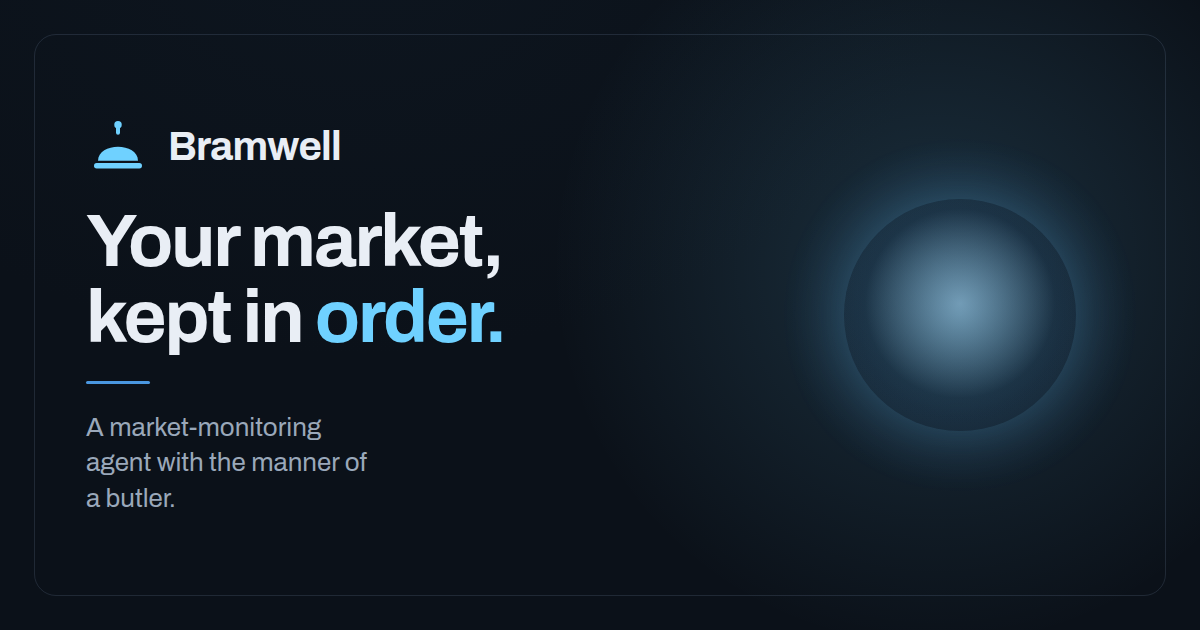
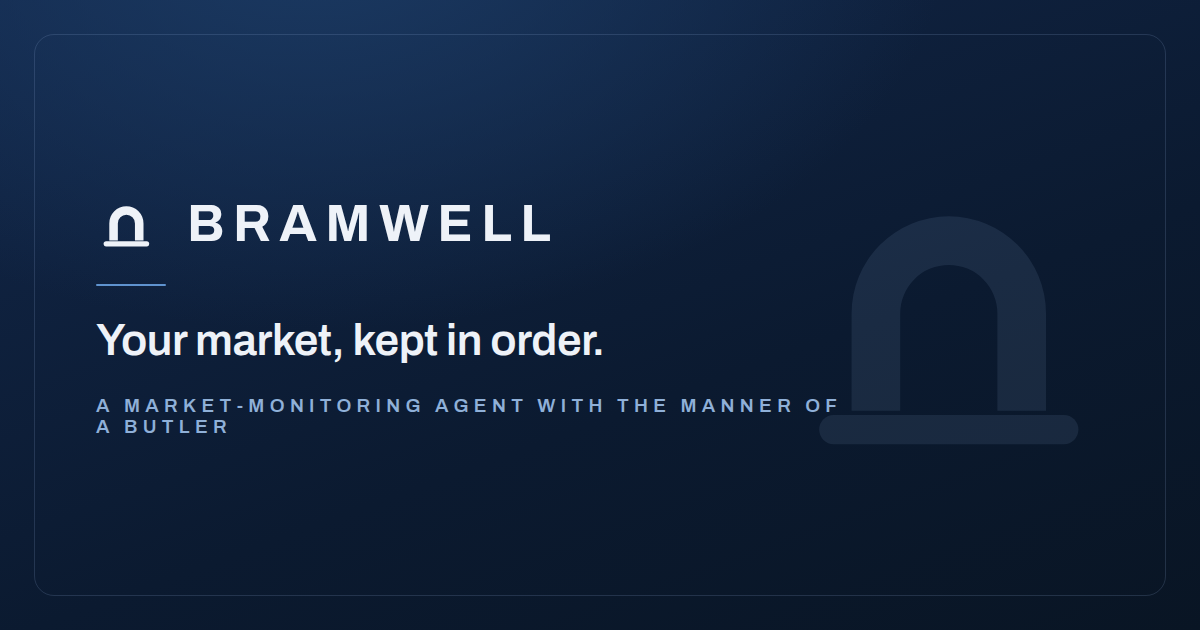
Adopt the Meridian identity: new Arch mark, uppercase wordmark, navy
Refresh the branding toward an establishment-finance register (Goldman /
J.P. Morgan / Morgan Stanley), keeping Bramwell's DNA.

- Mark: retire the literal call bell for the Arch — the vault/portico,
  banking's symbol of custody, with the bell's dome still in its curve.
  Rename src/brand/Bell.tsx -> src/brand/Mark.tsx (Arch geometry); update
  every brand-mark usage (App, Landing, Welcome, Login, EarlyAccess). The
  functional alert-bell icons (BellIcon/BellDot) are unrelated and unchanged.
- Wordmark: BRAMWELL in Archivo 700, uppercase and wide-tracked (~0.14em)
  across the header, landing nav, footer, and preview.
- Palette: deepen the single accent to a sober institutional navy —
  #2563a8 -> #2b4a74 (light), #4a97e0 -> #5f93cf (dark).
- Regenerate the shareability assets in the new register: favicon (Arch on
  navy tile), apple-touch-icon, and the social card (navy, uppercase
  wordmark, Arch, ghosted Arch watermark).
- Update the brand guide (docs/brand-guide.md) — mark, wordmark, color.

Verified: tsc clean, 222 tests pass, header renders correctly in light and
dark, and the single-file build still emits all three assets.

Claude-Session: https://claude.ai/code/session_018bHNTKfLa9FMkf6WHm9D12

diff --git a/src/components/Landing.tsx b/src/components/Landing.tsx
@@ -1,5 +1,5 @@
 import { useEffect, useRef, useState } from "react";
-import { Bell } from "../brand/Bell";
+import { Mark } from "../brand/Mark";
 import { VoiceOrb } from "./VoiceOrb";
 import { Login } from "./Login";
 import { EarlyAccess } from "./EarlyAccess";
@@ -107,7 +107,7 @@ export function Landing({ onEnter }: { onEnter: () => void }) {
       {/* ---------------------------------------------------------- Nav */}
       <header className="lp-nav">
         <a className="lp-brand" href="#home">
-          <Bell size={26} tone="brass" />
+          <Mark size={26} tone="brass" />
           <span className="lp-word">Bramwell</span>
         </a>
         <nav className="lp-links">
@@ -283,7 +283,7 @@ export function Landing({ onEnter }: { onEnter: () => void }) {
       {/* ------------------------------------------------------ Footer */}
       <footer className="lp-footer">
         <div className="lp-brand">
-          <Bell size={22} tone="brass" />
+          <Mark size={22} tone="brass" />
           <span className="lp-word">Bramwell</span>
         </div>
         <span className="lp-foot-tag">Your market, kept in order.</span>
@@ -306,7 +306,7 @@ function Preview() {
     <div className="lp-preview card">
       <div className="lp-preview-head">
         <span className="lp-preview-word">Bramwell</span>
-        <Bell size={20} tone="brass" />
+        <Mark size={20} tone="brass" />
         <span className="lp-preview-tag">Your market, kept in order.</span>
       </div>
       <div className="lp-preview-rows">

diff --git a/src/brand/Mark.tsx b/src/brand/Mark.tsx
@@ -1,0 +1,37 @@
+/*
+ * The mark: an arch — the vault, the portico, the threshold. Banking's oldest
+ * symbol of stability and custody, with the old call bell's dome still living
+ * in its curve (Bramwell began as a butler's bell; "bellwether" endures in the
+ * name). Institutional and geometric, it reads cleanly down to 16px. It is
+ * never animated. Bramwell keeps the watch; he does not fuss.
+ */
+export function Mark({
+  size = 24,
+  tone = "brass",
+  title = "Bramwell",
+}: {
+  size?: number;
+  tone?: "brass" | "ink";
+  title?: string;
+}) {
+  const fill = tone === "brass" ? "var(--brass)" : "var(--ink)";
+  return (
+    <svg
+      width={size}
+      height={size}
+      viewBox="0 0 32 32"
+      role="img"
+      aria-label={title}
+      fill="none"
+    >
+      <title>{title}</title>
+      {/* the arch — two legs, a rounded span, hollow centre */}
+      <path
+        d="M7 25 L7 16 A9 9 0 0 1 25 16 L25 25 L20.5 25 L20.5 16 A4.5 4.5 0 0 0 11.5 16 L11.5 25 Z"
+        fill={fill}
+      />
+      {/* the plinth it stands on */}
+      <rect x="4" y="25.4" width="24" height="2.7" rx="1.35" fill={fill} />
+    </svg>
+  );
+}

diff --git a/src/styles/tokens.css b/src/styles/tokens.css
@@ -14,9 +14,10 @@
   --ink-soft: #5b6672; /* secondary text, labels */
   --rule: #e4e9ef; /* hairlines, dividers, card borders */
 
-  /* The single accent — a calm slate-blue. Used freely now, not rationed. */
-  --brass: #2563a8; /* (token name kept; value is the new accent) */
-  --brass-strong: #1f5493; /* hover / pressed */
+  /* The single accent — Meridian's sober institutional navy (deeper and
+     graver than the old slate-blue), used for the mark, links, and controls. */
+  --brass: #2b4a74; /* (token name kept; value is the Meridian accent) */
+  --brass-strong: #1b3557; /* hover / pressed */
   --accent-tint: #eaf1f9; /* soft accent wash for the alert card */
   --accent-line: #cfe0f2; /* accent-tinted border */
   --oxblood: #7a2e2e; /* rare deep emphasis */
@@ -80,8 +81,9 @@
   --ink-soft: #99a6b4;
   --rule: #28323f;
 
-  --brass: #4a97e0;
-  --brass-strong: #66a9ea;
+  /* Meridian accent on the dark ground — a sober steel-blue, legible but grave. */
+  --brass: #5f93cf;
+  --brass-strong: #82abdc;
   --accent-tint: #14273a;
   --accent-line: #2c4a66;
   --oxblood: #cf7a7a;

diff --git a/src/App.tsx b/src/App.tsx
@@ -29,7 +29,7 @@ import { playChime } from "./chime";
 import { PortfolioStore } from "./portfolio/store";
 import { valuePosition, portfolioTotals } from "./portfolio/types";
 import { money } from "./components/cards/parts";
-import { Bell } from "./brand/Bell";
+import { Mark } from "./brand/Mark";
 import { Conversation, type ChatMessage } from "./components/Conversation";
 import { Composer } from "./components/Composer";
 import { CardBoard } from "./components/CardBoard";
@@ -744,7 +744,7 @@ export default function App() {
     <div className="app-shell">
       <header className="app-header">
         <span className="wordmark">Bramwell</span>
-        <Bell size={30} tone="brass" />
+        <Mark size={30} tone="brass" />
         <span className="tagline small state-note">Your market, kept in order.</span>
         {/* Market status sits top-right, across from the logo (its own row on
             mobile; grouped with the actions on desktop). */}

diff --git a/src/components/EarlyAccess.tsx b/src/components/EarlyAccess.tsx
@@ -1,5 +1,5 @@
 import { useEffect, useRef, useState } from "react";
-import { Bell } from "../brand/Bell";
+import { Mark } from "../brand/Mark";
 import { hasRequestedAccess, looksLikeEmail, submitWaitlist } from "../waitlist";
 import "../styles/earlyaccess.css";
 
@@ -64,7 +64,7 @@ export function EarlyAccess({ onClose }: { onClose: () => void }) {
         onClick={(e) => e.stopPropagation()}
       >
         <div className="ea-mark">
-          <Bell size={30} tone="brass" />
+          <Mark size={30} tone="brass" />
           <span className="ea-word">Bramwell Concierge</span>
         </div>
 

diff --git a/src/styles/landing.css b/src/styles/landing.css
@@ -227,9 +227,11 @@ html.lp-smooth-scroll {
 }
 .lp-word {
   font-family: var(--font-display);
-  font-weight: 600;
-  font-size: 1.15rem;
-  letter-spacing: 0.01em;
+  font-weight: 700;
+  font-size: 1.02rem;
+  text-transform: uppercase;
+  letter-spacing: 0.14em;
+  padding-left: 0.14em;
 }
 .lp-links {
   display: flex;
@@ -387,7 +389,10 @@ html.lp-smooth-scroll {
 }
 .lp-preview-word {
   font-family: var(--font-display);
-  font-weight: 600;
+  font-weight: 700;
+  text-transform: uppercase;
+  letter-spacing: 0.13em;
+  padding-left: 0.13em;
 }
 .lp-preview-tag {
   color: var(--ink-soft);

diff --git a/src/components/Welcome.tsx b/src/components/Welcome.tsx
@@ -1,5 +1,5 @@
 import { useEffect, useRef } from "react";
-import { Bell } from "../brand/Bell";
+import { Mark } from "../brand/Mark";
 import { hasToken } from "../feed/token";
 import "../styles/welcome.css";
 
@@ -38,7 +38,7 @@ export function Welcome({
         onClick={(e) => e.stopPropagation()}
       >
         <div className="welcome-mark">
-          <Bell size={34} tone="brass" />
+          <Mark size={34} tone="brass" />
           <span className="welcome-word">Bramwell</span>
         </div>
 

diff --git a/src/components/Login.tsx b/src/components/Login.tsx
@@ -1,5 +1,5 @@
 import { useEffect, useRef, useState } from "react";
-import { Bell } from "../brand/Bell";
+import { Mark } from "../brand/Mark";
 import { checkLogin } from "../auth";
 import "../styles/login.css";
 
@@ -56,7 +56,7 @@ export function Login({
         onClick={(e) => e.stopPropagation()}
       >
         <div className="login-mark">
-          <Bell size={30} tone="brass" />
+          <Mark size={30} tone="brass" />
           <span className="login-word">Bramwell</span>
         </div>
 

diff --git a/src/styles/app.css b/src/styles/app.css
@@ -21,10 +21,14 @@
 
 .wordmark {
   font-family: var(--font-display);
-  font-weight: 600;
-  font-size: 26px;
-  letter-spacing: -0.03em;
+  font-weight: 700;
+  font-size: 22px;
+  /* Meridian: institutional, uppercase, wide-tracked. */
+  text-transform: uppercase;
+  letter-spacing: 0.14em;
   line-height: 1;
+  /* the tracking adds trailing space; nudge back so the lockup stays tight */
+  padding-left: 0.14em;
 }
 
 /* The market pill takes the leading auto-margin so the whole right cluster

diff --git a/docs/brand-guide.md b/docs/brand-guide.md
@@ -10,7 +10,7 @@ shareable version lives as an artifact; this is the copy that ships with the cod
 Structured on the Harvard Business School Online brand-identity framework
 (persona · value proposition · visual standards · voice, anchored in core
 values). All values are drawn from the live product — `src/styles/tokens.css`,
-`src/brand/Bell.tsx`, `src/styles/typography.css`, and Bramwell's own voice.
+`src/brand/Mark.tsx`, `src/styles/typography.css`, and Bramwell's own voice.
 
 ---
 
@@ -97,13 +97,14 @@ he can't help, he demurs gracefully — never an error, never an apology loop.
 
 ## 06 · The mark
 
-A butler's call bell — the small domed bell on a hall desk. It means *summon and
-notify*, reads cleanly at 16px, and quietly rhymes with **bellwether**. It sits to
-the right of the wordmark. Two tones: brass (the accent) for brand use, ink for
-monochrome. Source: `src/brand/Bell.tsx`.
+**The Arch** — the vault, the portico, the threshold you're admitted through:
+banking's oldest symbol of stability and custody. The old call bell's dome still
+lives in its curve (Bramwell began as a butler's bell; "bellwether" endures in
+the name), now distilled to exact geometry. It sits to the right of the wordmark.
+Two tones: accent for brand use, ink for monochrome. Source: `src/brand/Mark.tsx`.
 
-- Never animated as a ringing bell. **Bramwell does not jingle.**
-- Never tilted, multiplied, or filled with gradients.
+- Never animated. Bramwell keeps the watch; he does not fuss.
+- Never tilted, outlined, or filled with gradients — one solid fill.
 - Give it room — the wordmark and mark are one lockup.
 
 ## 07 · Typography
@@ -112,6 +113,10 @@ monochrome. Source: `src/brand/Bell.tsx`.
 grotesque that stays composed at every size. Hierarchy comes from weight (400 /
 500 / 600 / 700) and scale, not a second face. Numbers use tabular figures so
 columns align.
+
+**The wordmark** is set apart: **BRAMWELL** in Archivo 700, **uppercase and
+wide-tracked** (~0.14em) — the institutional, private-bank register. Screen text
+stays sentence-case; only the wordmark is set this way.
 
 ## 08 · Color — two rooms, one house
 
@@ -129,8 +134,8 @@ values, never as décor.
 | Ink | `#1B2430` |
 | Ink-soft | `#5B6672` |
 | Rule | `#E4E9EF` |
-| Accent | `#2563A8` |
-| Accent (pressed) | `#1F5493` |
+| Accent (Meridian navy) | `#2B4A74` |
+| Accent (pressed) | `#1B3557` |
 
 **Night · workspace (dark)**
 
@@ -139,7 +144,7 @@ values, never as décor.
 | Ground | `#0F141B` |
 | Paper | `#182029` |
 | Ink | `#E8EEF4` |
-| Accent | `#4A97E0` |
+| Accent | `#5F93CF` |
 
 **Obsidian · voice sanctum & data**
 
@@ -164,7 +169,7 @@ values, never as décor.
 - Never give financial advice, tips, or price targets — report, don't recommend.
 - Never manufacture urgency: no rockets, klaxons, exclamation storms, or FOMO.
 - Never leave the client mute — if a reply fails, fall back gracefully.
-- Never ring or animate the bell; never neon-ify the palette; never add a second typeface.
+- Never animate or outline the mark; never neon-ify the palette; never add a second typeface.
 - Never dump jargon on the client — plain words, with a quiet definition on request.
 - Never let translation flatten the butler — his manner survives every language.
 
